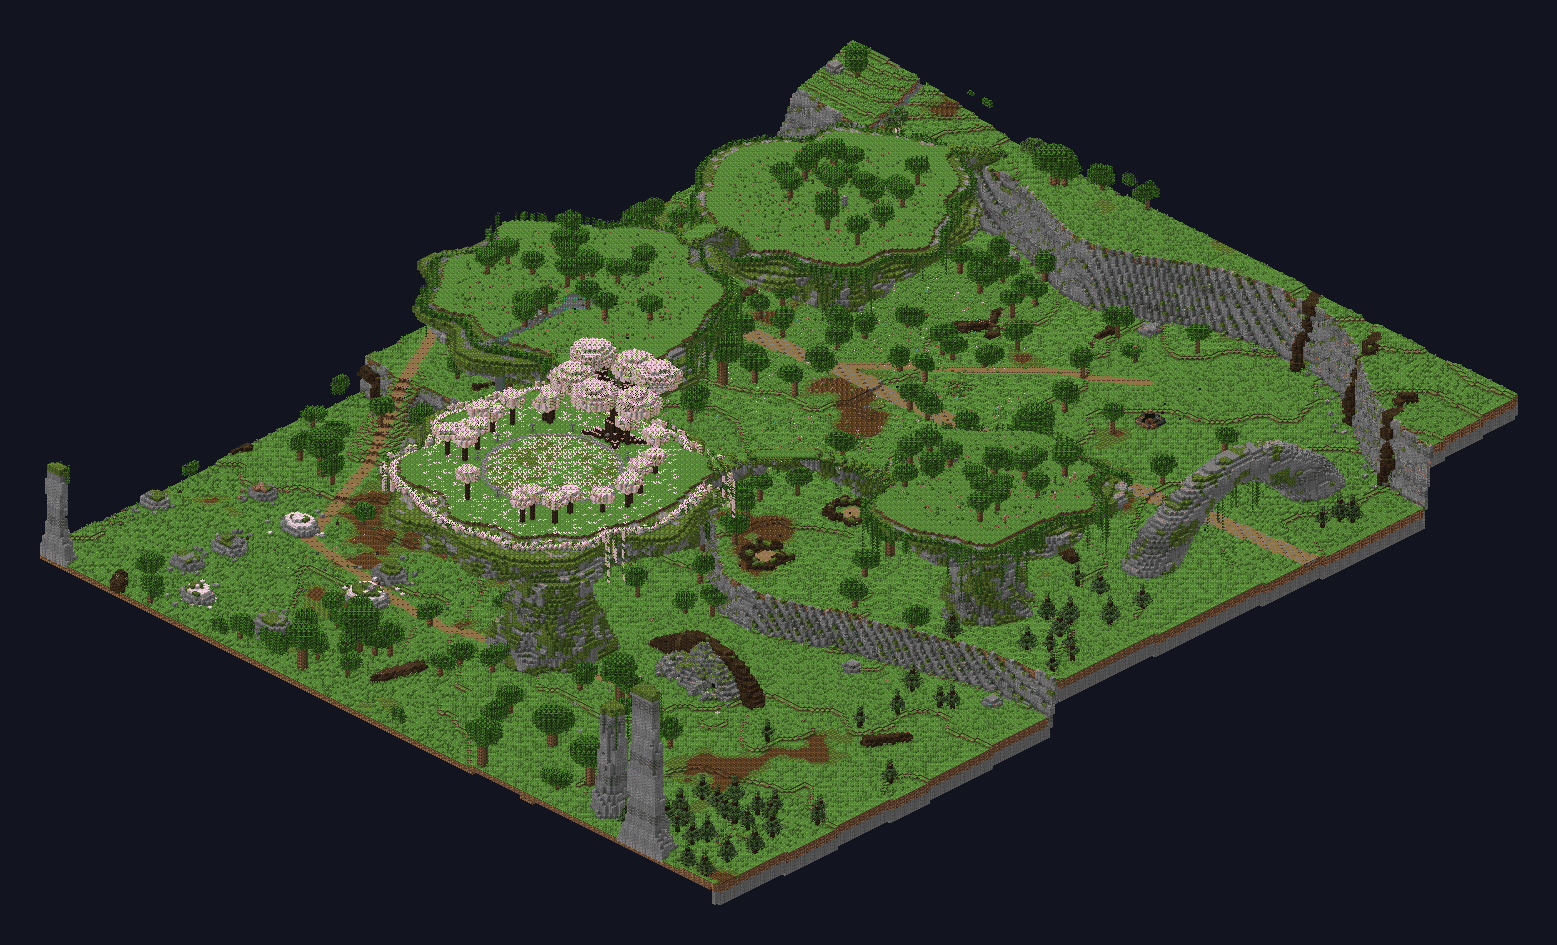
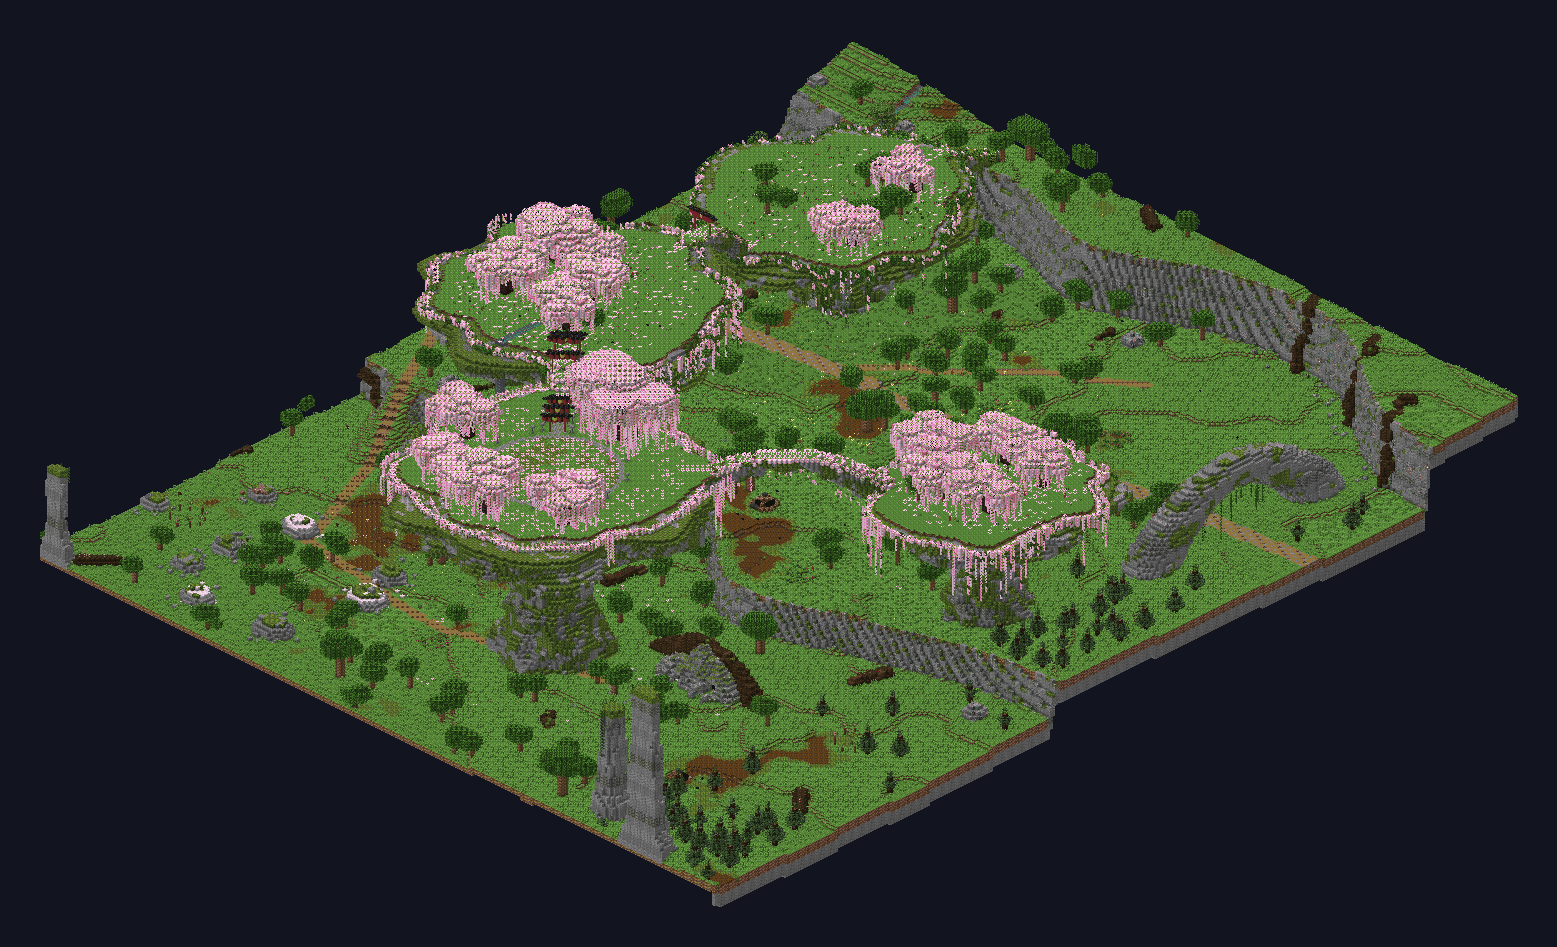
Proposals: field500 - weeping sakura, sakura gradient along the upper route, torii sando to the boss

Changed region(s): [[0.0308, 0.0307, 0.9865, 0.9513], [0.0308, 0.491, 0.0617, 0.5217]]

diff --git a/scripts/world_prototype/field500.py b/scripts/world_prototype/field500.py
@@ -620,8 +620,72 @@ UPPER = np.full((B, B), -1, np.int32)          # walkable heights above the grou
 ROCK = ["stone", "andesite", "stone", "tuff", "stone", "andesite"]
 
 
-def mesa(cx, cz, top_y, rb, rt, seed, needle=False, sakura=False, clear=0.0):
-    LEAF = "cherry_leaves" if sakura else "oak_leaves"
+def sakura_tree(x, z, g, size=1.0):
+    """A big weeping sakura: dark leaning trunk, spreading limbs, a wide layered pink crown with long hanging strands."""
+    rs = random.Random(x * 9973 + z)
+    th = int(5 + 3 * size)
+    lean = (rs.uniform(-1.5, 1.5), rs.uniform(-1.5, 1.5))
+    tube((x, g, z), (x + lean[0], g + th, z + lean[1]), 1.2 * size + .3, .8 * size + .2, mat=("cherry_log_top", "cherry_log"))
+    tops = []
+    for k in range(rs.randint(4, 6)):
+        a = k / 5 * math.tau + rs.uniform(-.4, .4)
+        L = (4 + 2.5 * size) * rs.uniform(.8, 1.1)
+        e = (x + lean[0] + math.cos(a) * L, g + th + rs.uniform(1, 3) * size, z + lean[1] + math.sin(a) * L)
+        tube((x + lean[0], g + th - 1, z + lean[1]), e, .7 * size + .2, .45, mat=("cherry_log_top", "cherry_log"))
+        tops.append(e)
+    tops.append((x + lean[0], g + th + 2.5 * size, z + lean[1]))
+    rim = []
+    for (tx, ty, tz) in tops:
+        r = (3.0 + 1.6 * size) * rs.uniform(.85, 1.1)
+        ri = int(r) + 1
+        for dx in range(-ri, ri + 1):
+            for dz in range(-ri, ri + 1):
+                for dy in range(-2, 3):
+                    q = (dx / r) ** 2 + (dz / r) ** 2 + (dy / (r * .5)) ** 2
+                    if q <= .85 + noise3(tx + dx, ty + dy, tz + dz, 181, 1.6) * .35:
+                        p = (int(round(tx)) + dx, int(round(ty)) + dy, int(round(tz)) + dz)
+                        if p not in w.b:
+                            put(*p, "cherry_leaves" if rs.random() > .08 else "pink_wool")
+                        if dy == -2 or q > .7: rim.append(p)
+    for p in rs.sample(rim, min(len(rim), int(len(rim) * .3))):          # weeping strands
+        for k2 in range(1, rs.randint(2, int(4 + 4 * size))):
+            q2 = (p[0], p[1] - k2, p[2])
+            if q2 in w.b or q2[1] <= at(p[0], p[2]) + 1: break
+            put(*q2, "cherry_leaves", shape="shut_s" if k2 > 2 else "full")
+    for _ in range(int(40 * size)):                                     # petals on the ground beneath
+        a = rs.random() * math.tau; r = (6 + 4 * size) * math.sqrt(rs.random())
+        px, pz = int(round(x + math.cos(a) * r)), int(round(z + math.sin(a) * r))
+        if 0 <= px < B and 0 <= pz < B:
+            gy2 = UPPER[pz, px] if UPPER[pz, px] >= 0 else at(px, pz)
+            if (px, gy2 + 1, pz) not in w.b: put(px, gy2 + 1, pz, "pink_petals", shape="carpet")
+
+
+def torii(cx, cz, y, ux, uz, half=3, h=6):
+    """A vermilion torii across a path heading (ux, uz): two posts, the nuki tie beam, the dark kasagi with upturned ends."""
+    px, pz = -uz, ux
+    for s2 in (-half, half):
+        bx, bz = int(round(cx + px * s2)), int(round(cz + pz * s2))
+        put(bx, y, bz, "stone_bricks")
+        for yy in range(y + 1, y + h + 1): put(bx, yy, bz, "red_concrete", shape="post")
+    for s2 in range(-half - 2, half + 3):
+        bx, bz = int(round(cx + px * s2)), int(round(cz + pz * s2))
+        if abs(s2) <= half: put(bx, y + h - 1, bz, "red_concrete", shape="slab_t")
+        put(bx, y + h + 1, bz, "blackstone" if abs(s2) <= half + 1 else "blackstone", shape="full" if abs(s2) < half + 2 else "slab")
+        if abs(s2) <= half + 1: put(bx, y + h, bz, "red_concrete")
+    put(int(round(cx)), y + h, int(round(cz)), "gold_block")
+
+
+def stone_lantern(x, z, y):
+    put(x, y + 1, z, "stone_bricks", shape="wall"); put(x, y + 2, z, "stone_bricks", shape="slab")
+    put(x, y + 2, z, "lantern", shape="lantern"); put(x, y + 3, z, "stone_bricks", shape="slab")
+
+
+PLANTED = []
+
+
+def mesa(cx, cz, top_y, rb, rt, seed, needle=False, sakura=0.0, clear=0.0):
+    sakura = float(sakura)
+    LEAF = "cherry_leaves" if sakura >= .5 else "oak_leaves"
     base = min(at(cx + dx, cz + dz) for dx in (-int(rb), 0, int(rb)) for dz in (-int(rb), 0, int(rb))) - 2
     Hm = top_y - base
     for y in range(base, top_y + 1):
@@ -643,7 +707,7 @@ def mesa(cx, cz, top_y, rb, rt, seed, needle=False, sakura=False, clear=0.0):
                 elif y == top_y:
                     put(x, y, z, "grass_block_top", "grass_block_side"); UPPER[z, x] = top_y
                 elif y >= top_y - 3 and d > rr - 1.6:
-                    put(x, y, z, "moss_block" if y < top_y - 1 else LEAF)        # a leafy, mossy lip instead of bare dirt
+                    put(x, y, z, "moss_block" if y < top_y - 1 else ("cherry_leaves" if noise3(x, y, z, 191, 3) < sakura else "oak_leaves"))
                 else:
                     n = noise3(x, y, z, seed + 7, 2.2)
                     up_open = y > base + 2 and f > .45                          # the overhang's underside and the waist
@@ -658,30 +722,38 @@ def mesa(cx, cz, top_y, rb, rt, seed, needle=False, sakura=False, clear=0.0):
         for k2 in range(R.randint(2, 6) if drape else R.randint(4, 18)):
             p = (x, top_y - k2, z)
             if p in w.b or p[1] <= at(x, z): break
-            put(*p, LEAF if drape else ("vine" if not sakura or R.random() < .5 else "cherry_leaves"), shape="full" if drape else "shut_s")
+            pk = R.random() < sakura
+            put(*p, ("cherry_leaves" if pk else "oak_leaves") if drape else ("cherry_leaves" if pk else "vine"), shape="full" if drape else "shut_s")
     if needle:
         mark(cx - int(rb) - 3, cz - int(rb) - 3, cx + int(rb) + 3, cz + int(rb) + 3)
         return
-    for _ in range(int(rt * .55) + 1):                               # trees and bushes on top
+    for _ in range(int(rt * (.55 - .3 * sakura)) + 1):               # trees on top: sakura share follows the route gradient (sakura are big, so fewer)
         a = R.random() * math.tau; rr = rt * (clear + (.7 - clear) * math.sqrt(R.random()))
         x, z = int(round(cx + math.cos(a) * rr)), int(round(cz + math.sin(a) * rr))
-        th = R.randint(4, 7) + (2 if sakura else 0)
-        for y in range(top_y + 1, top_y + th + 1): put(x, y, z, *LOG("cherry_log" if sakura else "oak_log"))
+        if (x, top_y + 1, z) in w.b: continue
+        if R.random() < sakura:
+            if any(math.hypot(x - tx2, z - tz2) < 13 for (tx2, tz2) in PLANTED): continue
+            PLANTED.append((x, z))
+            sakura_tree(x, z, top_y, size=R.uniform(.8, 1.2) + sakura * .2)
+            continue
+        th = R.randint(4, 7)
+        for y in range(top_y + 1, top_y + th + 1): put(x, y, z, *LOG("oak_log"))
         for dx in range(-3, 4):
             for dz in range(-3, 4):
                 for dy in range(-2, 2):
                     if dx * dx + dz * dz + dy * dy * 2 <= 9 + R.random() * 3 and (x + dx, top_y + th + dy, z + dz) not in w.b:
-                        put(x + dx, top_y + th + dy, z + dz, LEAF)
+                        put(x + dx, top_y + th + dy, z + dz, "oak_leaves")
     for _ in range(int(rt * rt * .5)):
         a = R.random() * math.tau; rr = rt * .85 * math.sqrt(R.random())
         x, z = int(round(cx + math.cos(a) * rr)), int(round(cz + math.sin(a) * rr))
         if (x, top_y + 1, z) not in w.b:
-            if sakura: put(x, top_y + 1, z, "pink_petals", shape="carpet")
+            if R.random() < sakura: put(x, top_y + 1, z, "pink_petals", shape="carpet")
             else: put(x, top_y + 1, z, R.choice(["short_grass", "short_grass", "poppy", "dandelion", "fern"]), shape="plant")
     mark(cx - int(rb) - 3, cz - int(rb) - 3, cx + int(rb) + 3, cz + int(rb) + 3)
 
 
-def rock_bridge(p0, p1, rise=3, width=1.6):
+def rock_bridge(p0, p1, rise=3, width=1.6, sakura=0.0):
+    samples = []
     """A natural rock bridge with a grassy walkable deck; the deck height goes into UPPER."""
     L = math.dist((p0[0], p0[2]), (p1[0], p1[2])); n = int(L * 2)
     cpt = lambda t: (int(round(p0[0] + (p1[0] - p0[0]) * t)), int(round(p0[2] + (p1[2] - p0[2]) * t)))
@@ -714,12 +786,16 @@ def rock_bridge(p0, p1, rise=3, width=1.6):
                     if w.b.get((x, deck + 1, z), ("", "", ""))[1] in ("vine",): w.b.pop((x, deck + 1, z), None)
                 for y in range(int(deck - under * (1 - (d / (wid + 1.2)) ** 2)), deck):
                     if y > at(x, z): put(x, y, z, ROCK[(y // 4) % len(ROCK)] if noise3(x, y, z, 153, 2) < .5 else "moss_block")
-                if wid < d <= wid + 1.2 and (x, deck, z) not in w.b: put(x, deck, z, "azalea_leaves" if (x + z) % 3 else "oak_leaves")
+                if wid < d <= wid + 1.2 and (x, deck, z) not in w.b:
+                    put(x, deck, z, "cherry_leaves" if R.random() < sakura else ("azalea_leaves" if (x + z) % 3 else "oak_leaves"))
+                if d <= wid and R.random() < sakura * .5 and (x, deck + 1, z) not in w.b: put(x, deck + 1, z, "pink_petals", shape="carpet")
+        samples.append((cx, cz, deck, u))
         if i % 7 == 3:
             for k2 in range(R.randint(2, 7)):
                 vx, vz = int(round(cx + R.uniform(-1, 1))), int(round(cz + R.uniform(-1, 1)))
                 p = (vx, deck - int(under) - k2, vz)
-                if p not in w.b and p[1] > at(vx, vz): put(*p, "vine", shape="shut_s")
+                if p not in w.b and p[1] > at(vx, vz): put(*p, "cherry_leaves" if R.random() < sakura else "vine", shape="shut_s")
+    return samples
 
 
 # (the sakura arena is built right after the pillars)
@@ -729,20 +805,31 @@ EDGE_Y = at(ex, ez)
 PILLARS = [(300, 222, EDGE_Y + 10, 15, 38, 3), (296, 322, EDGE_Y + 20, 16, 42, 5),
            (372, 408, EDGE_Y + 28, 17, 44, 1), (456, 318, EDGE_Y + 22, 13, 34, 7)]
 SAKURA = 2                                                          # the highest pillar is the sakura boss's arena
+SAK = [.3, .62, 1.0, .85]                                           # sakura share along the upper route
 for k2, (px, pz, ty, rb, rt, sd) in enumerate(PILLARS):
-    mesa(px, pz, ty, rb, rt, sd, sakura=(k2 == SAKURA), clear=(.5 if k2 == SAKURA else 0))
+    mesa(px, pz, ty, rb, rt, sd, sakura=SAK[k2], clear=(.66 if k2 == SAKURA else 0))
 
 
-def link(a, b, rise):
+def link(a, b, rise, sak=0.0):
     (ax, az, ay, _, art, _), (bx, bz, by, _, brt, _) = a, b
     d = math.hypot(bx - ax, bz - az); ux, uz = (bx - ax) / d, (bz - az) / d
-    rock_bridge((ax + ux * art * .84, ay, az + uz * art * .84), (bx - ux * brt * .84, by, bz - uz * brt * .84), rise=rise)
+    return rock_bridge((ax + ux * art * .84, ay, az + uz * art * .84), (bx - ux * brt * .84, by, bz - uz * brt * .84), rise=rise, sakura=sak), (ux, uz)
 
 
-rock_bridge((ex, EDGE_Y, ez - 2), (PILLARS[0][0], PILLARS[0][2], PILLARS[0][1] - PILLARS[0][4] * .84), rise=0)
-link(PILLARS[0], PILLARS[1], 5)
-link(PILLARS[1], PILLARS[2], 6)
-link(PILLARS[2], PILLARS[3], 7)
+BR0 = rock_bridge((ex, EDGE_Y, ez - 2), (PILLARS[0][0], PILLARS[0][2], PILLARS[0][1] - PILLARS[0][4] * .84), rise=0, sakura=.15)
+BR1, D1 = link(PILLARS[0], PILLARS[1], 5, .45)
+BR2, D2 = link(PILLARS[1], PILLARS[2], 6, .85)
+BR3, D3 = link(PILLARS[2], PILLARS[3], 7, .9)
+# the sando: torii appear along the route and grow denser toward the boss (one, then a few, then a tunnel of them)
+def torii_on(samples, d, every):
+    for i2, (cx, cz, deck, u) in enumerate(samples):
+        if .08 < u < .92 and i2 % every == 0:
+            torii(cx, cz, deck, d[0], d[1], half=3, h=6)
+torii_on(BR1, D1, 40)
+torii_on(BR2, D2, 18)
+P0x, P0z, P0y, _, P0r, _ = PILLARS[0]
+for (dx, dz) in ((0, -int(P0r * .6)),):                             # a single small torii marks the start of the sando on the first pillar
+    torii(P0x + dx, P0z + dz + 6, P0y, 0, 1, half=2, h=5)
 for x in range(ex - 3, ex + 4):                                     # the plateau edge where the first bridge starts
     for z in range(ez - 4, ez + 1):
         UPPER[z, x] = max(UPPER[z, x], at(x, z))
@@ -860,26 +947,27 @@ for k2 in range(12):                                                # stone lant
     if UPPER[z, x] != SY_: continue
     put(x, SY_ + 1, z, "stone_bricks", shape="wall"); put(x, SY_ + 2, z, "stone_bricks", shape="slab")
     put(x, SY_ + 2, z, "lantern", shape="lantern"); put(x, SY_ + 3, z, "stone_bricks", shape="slab")
-# the great sakura at the back of the arena: thick trunk, wide pink crown that rains petals onto the floor
+# the walk from the last bridge to the arena: a tunnel of torii lined with stone lanterns
+ux2, uz2 = D2
+startx, startz = BR2[-1][0], BR2[-1][1]
+for k2 in range(1, 9):
+    cx, cz = startx + ux2 * k2 * 5, startz + uz2 * k2 * 5
+    if math.hypot(cx - SX_, cz - SZ_) < AR + 2: break
+    torii(cx, cz, SY_, ux2, uz2, half=2, h=5)
+    for s2 in (-4, 4):
+        stone_lantern(int(round(cx - uz2 * s2)), int(round(cz + ux2 * s2)), SY_)
+for k2 in range(0, 30):
+    for s2 in (-1, 0, 1):
+        x, z = int(round(startx + ux2 * k2 - uz2 * s2)), int(round(startz + uz2 * k2 + ux2 * s2))
+        if UPPER[z, x] == SY_ and math.hypot(x - SX_, z - SZ_) > AR: put(x, SY_, z, "stone_bricks" if (k2 + s2) % 3 else "mossy_stone_bricks")
+# the great sakura at the back of the arena
 GX_, GZ_ = SX_, SZ_ - AR - 6
 gtop = SY_ + 22
-tube((GX_, SY_ - 1, GZ_), (GX_ + 1, SY_ + 12, GZ_ - 1), 3.2, 2.0, mat=("cherry_log_top", "cherry_log"))
-for k2 in range(6):
-    a = k2 / 6 * math.tau + .3
-    end = (GX_ + math.cos(a) * 13, SY_ + 17 + R.randint(0, 4), GZ_ + math.sin(a) * 11)
-    tube((GX_ + 1, SY_ + 11, GZ_ - 1), end, 1.6, .8, mat=("cherry_log_top", "cherry_log"))
-    for dx in range(-7, 8):
-        for dz in range(-7, 8):
-            for dy in range(-3, 4):
-                q = (dx / 6.5) ** 2 + (dz / 6.5) ** 2 + (dy / 3.4) ** 2
-                if q <= .8 + noise3(end[0] + dx, dy, end[2] + dz, 172, 2) * .4:
-                    p = (int(end[0]) + dx, int(end[1]) + dy, int(end[2]) + dz)
-                    if p not in w.b: put(*p, "cherry_leaves")
-for (dx, dz) in ((-1, 0), (1, 1), (0, -1), (2, -1), (-2, 1)):          # root flare
-    tube((GX_, SY_ + 2, GZ_), (GX_ + dx * 5, SY_ - 1, GZ_ + dz * 5), 1.4, .7, mat=("cherry_log_top", "cherry_log"))
-for _ in range(120):                                                 # petals drifting below the crown
-    x, z = GX_ + R.randint(-18, 18), GZ_ + R.randint(-14, 20)
-    if 0 <= x < B and 0 <= z < B and UPPER[z, x] == SY_ and (x, SY_ + 1, z) not in w.b: put(x, SY_ + 1, z, "pink_petals", shape="carpet")
+sakura_tree(GX_, GZ_ - 4, SY_, size=2.6)                                 # the great weeping sakura
+for k2 in range(0):                                                  # (ring disabled: the pillar's own sakura frame the arena)
+    a = k2 / 10 * math.tau + .2
+    x, z = int(round(SX_ + math.cos(a) * (AR + 9))), int(round(SZ_ + math.sin(a) * (AR + 9)))
+    if UPPER[z, x] == SY_ and (x, SY_ + 1, z) not in w.b and math.hypot(x - GX_, z - GZ_) > 14: sakura_tree(x, z, SY_, size=1.4)
 put(SX_, SY_ + 1, SZ_, "pink_wool", shape="boss")                    # the sakura boss (stand-in)
 CONTENT.append((SX_, SZ_, "boss"))
 

diff --git a/scripts/world_prototype/field500_render.py b/scripts/world_prototype/field500_render.py
@@ -8,7 +8,7 @@ b, hi, LABELS = pickle.load(open("field500.pkl", "rb"))
 SHOTS = {"tree": (190, 100, 290, 205, 10), "boss": (352, 52, 438, 138, 10), "fungal": (40, 190, 150, 285, 10),
          "wolf": (380, 355, 450, 430, 13), "tower": (60, 45, 112, 100, 14), "cliff": (420, 120, 499, 190, 12),
          "boulders": (235, 390, 335, 465, 10), "meadow": (270, 195, 395, 305, 8), "pond": (55, 385, 165, 460, 10),
-         "rest": (165, 235, 235, 295, 14), "ramp": (120, 300, 220, 380, 9), "falls": (230, 140, 300, 220, 11), "gap": (140, 300, 230, 360, 12), "sap": (150, 190, 186, 226, 18), "arch": (240, 200, 300, 270, 12), "pillars": (230, 150, 499, 470, 5), "pillar1": (240, 270, 345, 375, 9), "top": (320, 350, 425, 465, 9), "sakura": (325, 355, 420, 450, 11), "gate": (0, 400, 80, 499, 9), "egate": (430, 180, 499, 290, 9)}
+         "rest": (165, 235, 235, 295, 14), "ramp": (120, 300, 220, 380, 9), "falls": (230, 140, 300, 220, 11), "gap": (140, 300, 230, 360, 12), "sap": (150, 190, 186, 226, 18), "arch": (240, 200, 300, 270, 12), "pillars": (230, 150, 499, 470, 5), "pillar1": (240, 270, 345, 375, 9), "top": (320, 350, 425, 465, 9), "sakura": (315, 340, 425, 455, 10), "sando": (280, 300, 380, 400, 9), "gate": (0, 400, 80, 499, 9), "egate": (430, 180, 499, 290, 9)}
 
 
 def render(sub, W):
